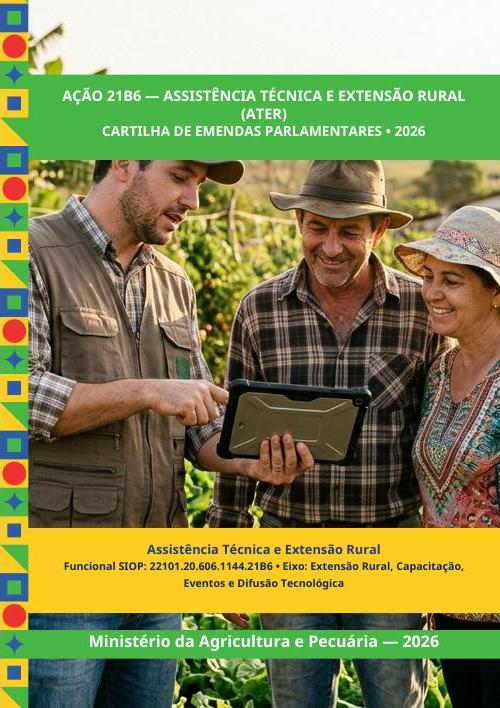
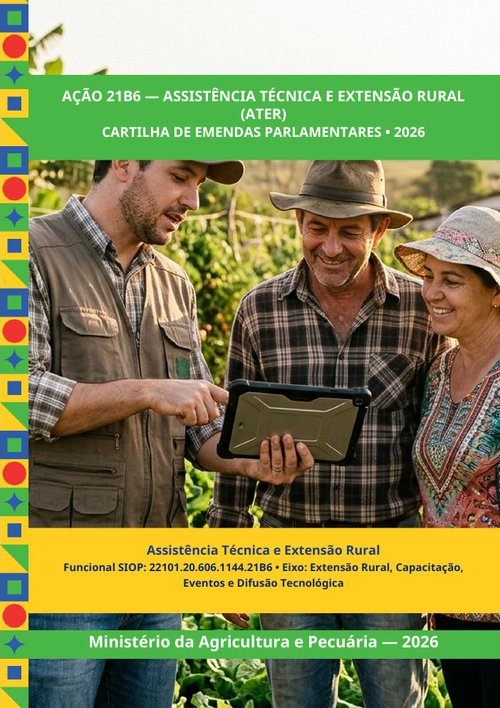
Cartilha 21B6 corrigida (sem referência à CEPLAC) e nova capa; unidade da 21B6 no card
Claude-Session: https://claude.ai/code/session_01NthMbWdmVFEibmh8kZEHRm

diff --git a/docs/index.html b/docs/index.html
@@ -9732,7 +9732,7 @@ const PORT_ACOES = [
   ['214Z', 'Fomento à Tecnologia Agropecuária e Recursos Genéticos', 'Inovação, bioinsumos, AgTechs e conectividade rural', '000C · 0001 · 0003 · 0005', 'SDR', 1],
   ['00PN', 'Cooperação com a OCDE (país não membro)', 'Cota do Brasil nos Códigos de Tratores da OCDE · não financia eventos', '0003', 'SCRI / SDR', 0],
   ['8622', 'Promoção do Cooperativismo, Associativismo e Agroindústria', 'Cooperativismo, gestão, inclusão produtiva e eventos', '0000 · 000D', 'SDR', 1],
-  ['21B6', 'Assistência Técnica e Extensão Rural (ATER)', 'Extensão rural, capacitação, eventos e difusão tecnológica', '0001', 'SDR / CEPLAC', 1],
+  ['21B6', 'Assistência Técnica e Extensão Rural (ATER)', 'Extensão rural, capacitação, eventos e difusão tecnológica', '0001', 'SDR · Depto. de Assistência Técnica e Extensão Rural', 1],
   ['8606', 'Agricultura Orgânica · Pró-Orgânico', 'Produção orgânica, feiras, capacitação e certificação', '0001', 'SDR e SDA / SFAs', 1],
   ['20ZY', 'Desenvolvimento Sustentável da Cadeia Produtiva do Cacau', 'Cacauicultura sustentável, pesquisa, bioeconomia e eventos', '0002 · 0003 · 0004', 'CEPLAC / SDR', 1]];
 function desenharPortfolio(tela){
